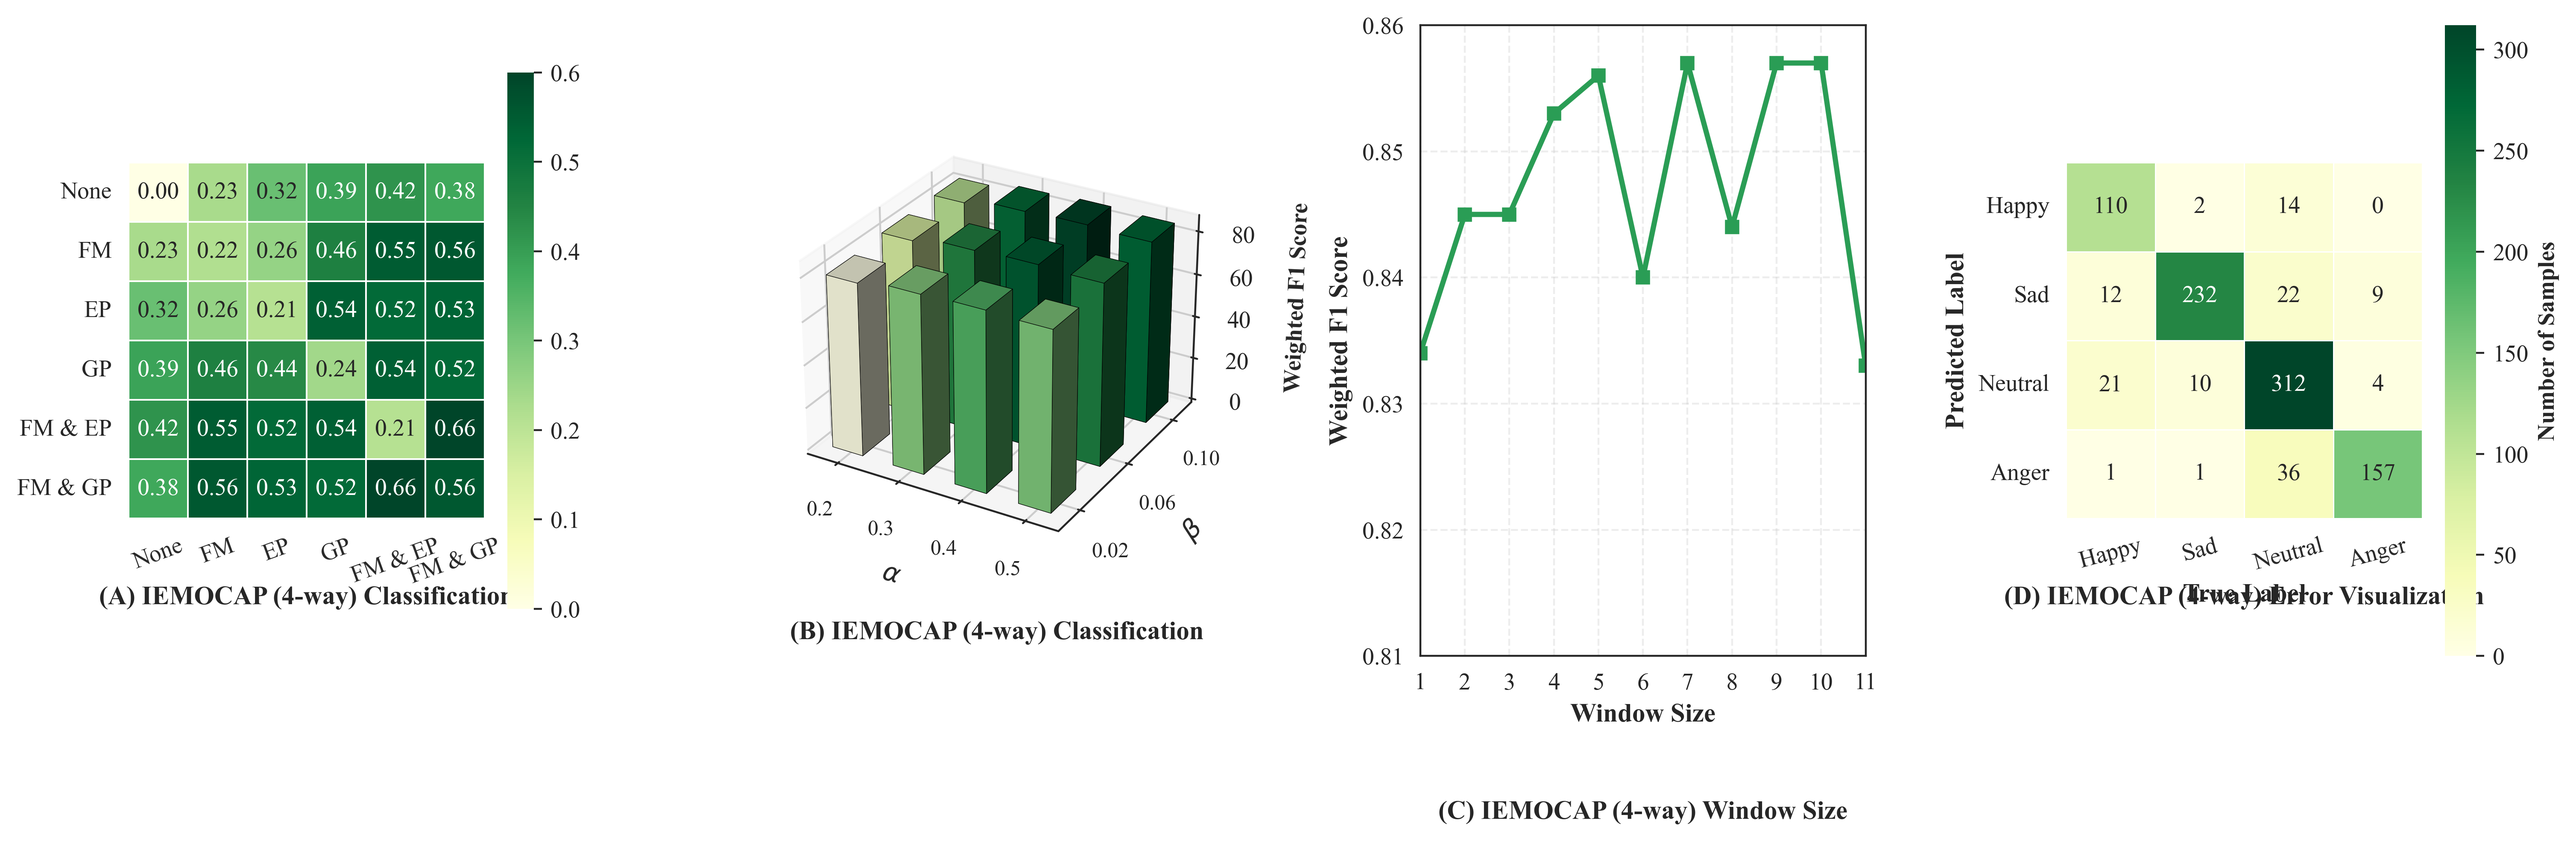
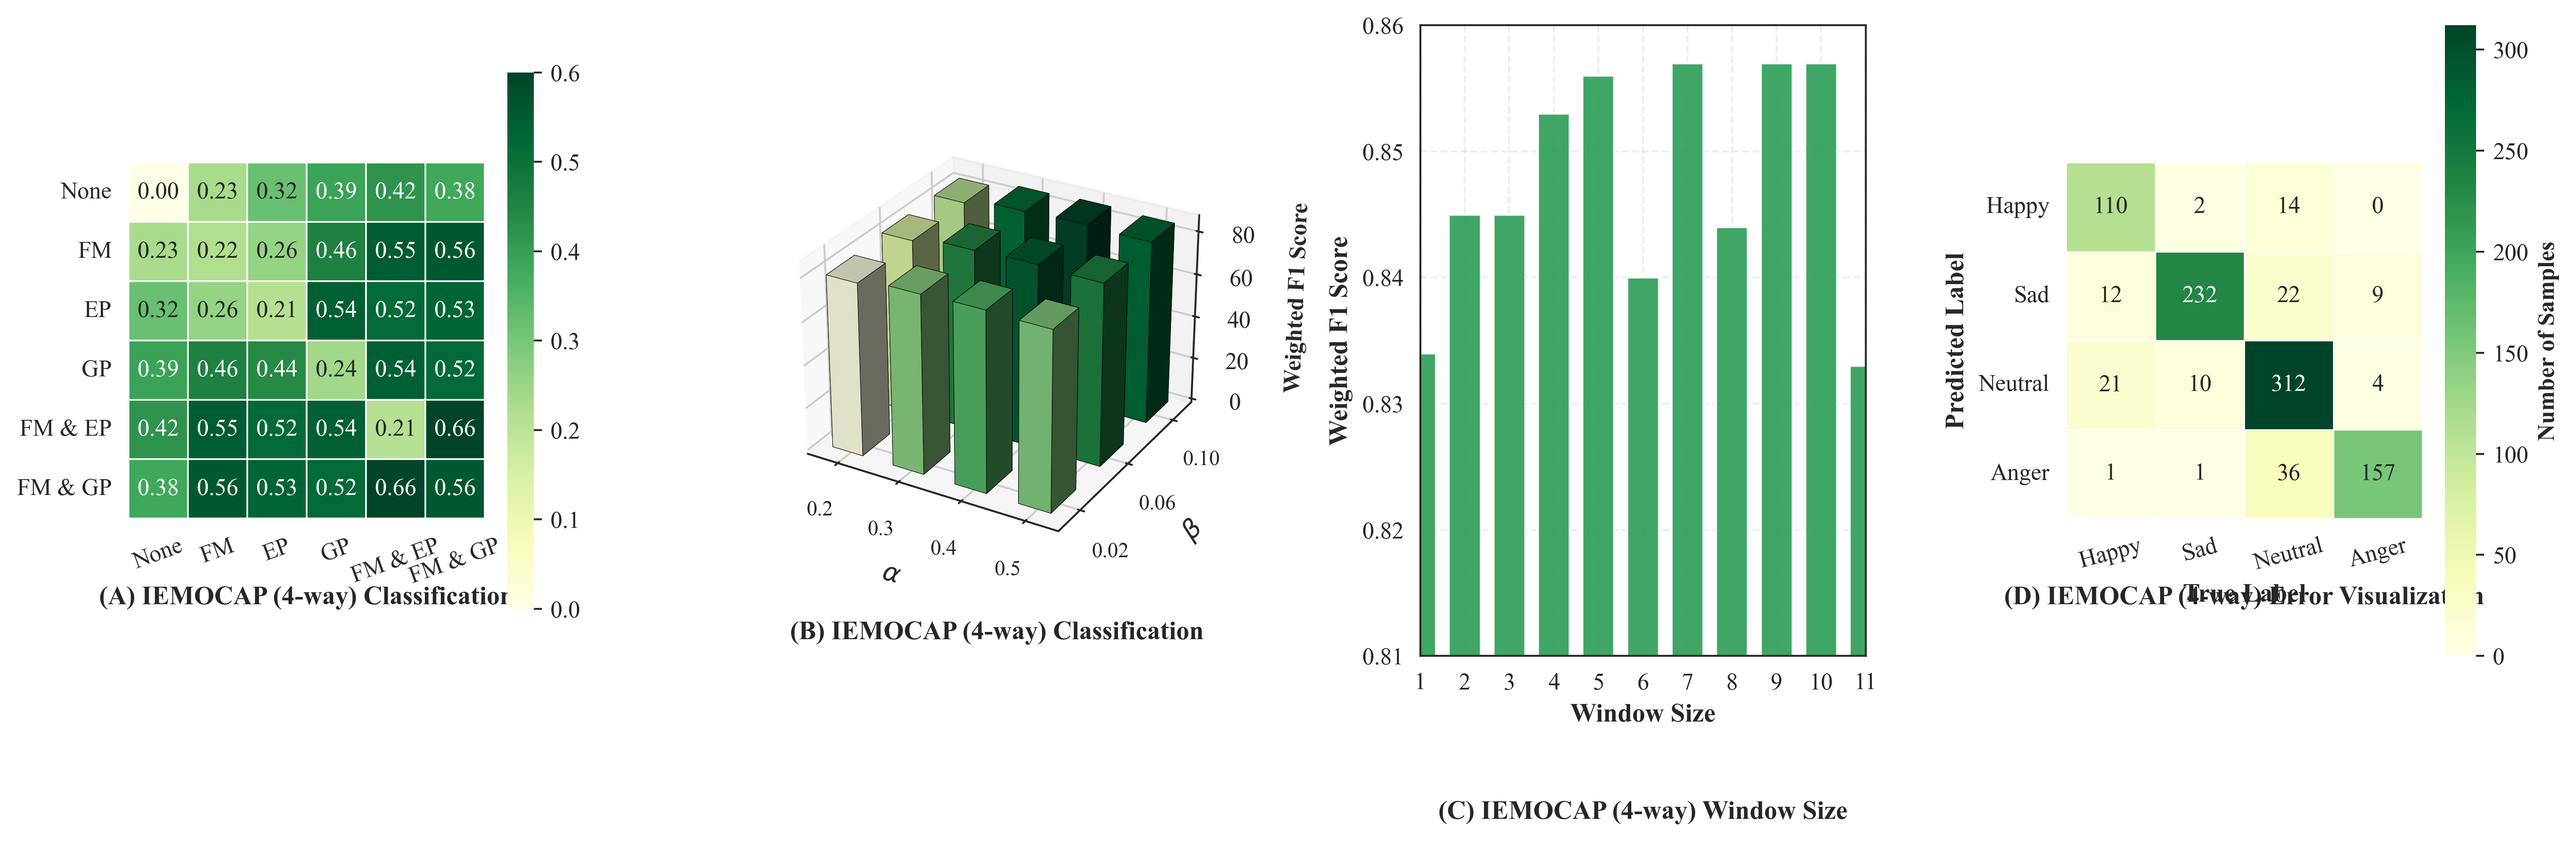
update visualization outputs for paper figures
Switch panel C in the four-panel figure from a line plot to a bar chart, and add a reusable t-SNE plotting script with regenerated output using a gray background.

Made-with: Cursor

Changed region(s): [[0.5298, 0.0619, 0.748, 0.8047]]

diff --git a/tsne_visualization.py b/tsne_visualization.py
@@ -1,0 +1,196 @@
+import argparse
+from pathlib import Path
+
+import matplotlib.pyplot as plt
+import numpy as np
+from sklearn.manifold import TSNE
+from sklearn.preprocessing import StandardScaler
+
+
+def pairwise_class_distance(emb2d: np.ndarray, labels: np.ndarray) -> float:
+    """计算各类别中心两两欧式距离的平均值。"""
+    classes = np.unique(labels)
+    centers = []
+    for cls in classes:
+        cls_points = emb2d[labels == cls]
+        if len(cls_points) == 0:
+            continue
+        centers.append(np.mean(cls_points, axis=0))
+
+    if len(centers) < 2:
+        return 0.0
+
+    centers = np.array(centers)
+    dists = []
+    for i in range(len(centers)):
+        for j in range(i + 1, len(centers)):
+            dists.append(np.linalg.norm(centers[i] - centers[j]))
+    return float(np.mean(dists))
+
+
+def build_palette(n_classes: int):
+    """构建与论文图接近的高对比配色。"""
+    base = [
+        "#ef4444",  # red
+        "#f59e0b",  # orange
+        "#eab308",  # yellow
+        "#10b981",  # emerald
+        "#06b6d4",  # cyan
+        "#3b82f6",  # blue
+        "#8b5cf6",  # violet
+        "#ec4899",  # pink
+    ]
+    if n_classes <= len(base):
+        return base[:n_classes]
+    cmap = plt.cm.get_cmap("tab20", n_classes)
+    return [cmap(i) for i in range(n_classes)]
+
+
+def plot_tsne(
+    features: np.ndarray,
+    labels: np.ndarray,
+    class_names=None,
+    title: str = "JOYFUL",
+    save_path: str = "tsne_joyful.png",
+    random_state: int = 42,
+):
+    """
+    绘制 t-SNE 散点图并显示类别中心平均距离。
+    """
+    if features.ndim != 2:
+        raise ValueError("features 必须是二维数组: [样本数, 特征维度]")
+    if labels.ndim != 1:
+        raise ValueError("labels 必须是一维数组: [样本数]")
+    if len(features) != len(labels):
+        raise ValueError("features 与 labels 样本数不一致")
+
+    scaler = StandardScaler()
+    features_std = scaler.fit_transform(features)
+
+    tsne = TSNE(
+        n_components=2,
+        perplexity=min(30, max(5, len(features) // 10)),
+        learning_rate="auto",
+        init="pca",
+        random_state=random_state,
+    )
+    emb2d = tsne.fit_transform(features_std)
+
+    # 归一化到更美观的显示范围，便于论文排版
+    emb2d = (emb2d - emb2d.mean(axis=0)) / (emb2d.std(axis=0) + 1e-8)
+    emb2d = emb2d * 15
+
+    unique_labels = np.unique(labels)
+    if class_names is None:
+        class_names = [str(x) for x in unique_labels]
+    palette = build_palette(len(unique_labels))
+
+    plt.rcParams["font.family"] = "Times New Roman"
+    fig, ax = plt.subplots(figsize=(8.2, 6.2), facecolor="#efeff4")
+    ax.set_facecolor("#efeff4")
+
+    for idx, cls in enumerate(unique_labels):
+        pts = emb2d[labels == cls]
+        ax.scatter(
+            pts[:, 0],
+            pts[:, 1],
+            s=22,
+            c=[palette[idx]],
+            alpha=0.9,
+            edgecolors="white",
+            linewidths=0.3,
+            label=class_names[idx],
+        )
+
+    ax.set_xticks([])
+    ax.set_yticks([])
+    for spine in ax.spines.values():
+        spine.set_visible(False)
+
+    ax.text(
+        0.02,
+        0.96,
+        title,
+        transform=ax.transAxes,
+        fontsize=23,
+        fontweight="bold",
+        va="top",
+        ha="left",
+    )
+
+    avg_dist = pairwise_class_distance(emb2d, labels)
+    ax.text(
+        0.5,
+        -0.08,
+        f"Average Distance: {avg_dist:.2f}",
+        transform=ax.transAxes,
+        fontsize=20,
+        fontweight="bold",
+        va="top",
+        ha="center",
+    )
+
+    plt.tight_layout()
+    fig.savefig(save_path, dpi=400, bbox_inches="tight")
+    plt.close(fig)
+    return save_path, avg_dist
+
+
+def load_data(features_path: str, labels_path: str):
+    """支持 .npy 或 .csv 的特征/标签加载。"""
+    features_file = Path(features_path)
+    labels_file = Path(labels_path)
+
+    if features_file.suffix.lower() == ".npy":
+        features = np.load(features_file)
+    else:
+        features = np.loadtxt(features_file, delimiter=",")
+
+    if labels_file.suffix.lower() == ".npy":
+        labels = np.load(labels_file)
+    else:
+        labels = np.loadtxt(labels_file, delimiter=",")
+
+    labels = labels.astype(int)
+    return features, labels
+
+
+def demo_data(n_classes=6, points_per_class=80, dim=64, random_state=42):
+    """构造演示数据，便于你无缝跑通脚本。"""
+    rng = np.random.default_rng(random_state)
+    centers = rng.normal(0, 4.0, size=(n_classes, dim))
+    x_list, y_list = [], []
+    for c in range(n_classes):
+        pts = centers[c] + rng.normal(0, 1.2, size=(points_per_class, dim))
+        x_list.append(pts)
+        y_list.append(np.full(points_per_class, c))
+    return np.vstack(x_list), np.concatenate(y_list)
+
+
+def parse_args():
+    parser = argparse.ArgumentParser(description="论文 t-SNE 可视化脚本")
+    parser.add_argument("--features", type=str, default="", help="特征文件路径 (.npy 或 .csv)")
+    parser.add_argument("--labels", type=str, default="", help="标签文件路径 (.npy 或 .csv)")
+    parser.add_argument("--title", type=str, default="JOYFUL")
+    parser.add_argument("--output", type=str, default="tsne_joyful.png")
+    parser.add_argument("--seed", type=int, default=42)
+    return parser.parse_args()
+
+
+if __name__ == "__main__":
+    args = parse_args()
+
+    if args.features and args.labels:
+        feats, labs = load_data(args.features, args.labels)
+    else:
+        feats, labs = demo_data()
+
+    out_file, avg = plot_tsne(
+        features=feats,
+        labels=labs,
+        title=args.title,
+        save_path=args.output,
+        random_state=args.seed,
+    )
+    print(f"Saved: {out_file}")
+    print(f"Average Distance: {avg:.2f}")

diff --git a/paper_visualization.py b/paper_visualization.py
@@ -112,10 +112,10 @@ def plot_all_panels(save_path="paper_figure.png", dpi=400, show=False):
     ax2.set_title("(B) IEMOCAP (4-way) Classification", fontsize=11, fontweight="bold", y=-0.22)
 
     # -----------------------------
-    # (C) 折线图
+    # (C) 直方图（柱状图）
     # -----------------------------
     ax3 = fig.add_subplot(gs[0, 2])
-    ax3.plot(window_sizes, weighted_f1, color="#2a9d55", marker="s", linewidth=2.2, markersize=5)
+    ax3.bar(window_sizes, weighted_f1, color="#2a9d55", width=0.72, alpha=0.9)
     ax3.set_xlim(1, 11)
     ax3.set_ylim(0.81, 0.86)
     ax3.set_xticks(window_sizes)
